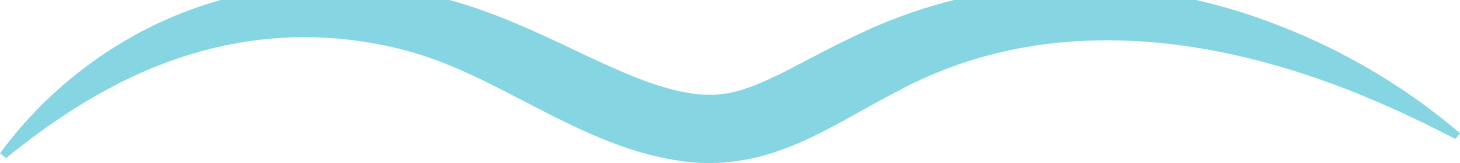
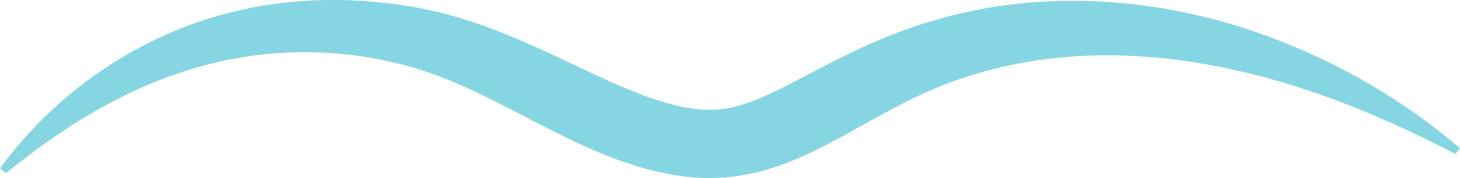
wave

diff --git a/styles.css b/styles.css
@@ -33,13 +33,16 @@ body {
 .wave{
     width: 85%; 
     height: 20%;
+    padding-left: 10%;
     display: flex;
     justify-content: center;
     align-items: center;
+    position: absolute;
+
 }
 .wave img{
     width: 100%;
-    height: auto;
+    height: 100%;
 }
     
 /* Sticky hovedmenu */
@@ -50,7 +53,6 @@ body {
     backdrop-filter: blur(5px); /* Glas-effekt */
     padding: 10px 0;
     text-align: center;
-
 }
 
 .nav-container ul {
@@ -78,4 +80,37 @@ body {
     border-radius: 5px;
     text-decoration: underline;
     text-decoration-style: wavy;
+}
+.footer {
+    position: relative;
+    width: 100%;
+    height: 120px; /* Justér højden efter behov */
+    background-image: url(Frame29.png) no-repeat center center/cover; /* Baggrundsbillede */
+    display: flex;
+    align-items: center;
+    justify-content: center;
+    text-align: center;
+    color: white;
+}
+
+.overlay {
+    position: absolute;
+    top: 0;
+    left: 0;
+    width: 100%;
+    height: 100%;
+    background: rgba(0, 0, 0, 0.5); /* Mørkt overlay */
+}
+
+.footer-content {
+    position: relative;
+    z-index: 2;
+}
+
+.footer a {
+    color: white;
+    text-decoration: none;
+    font-weight: bold;
+    display: block;
+    margin-top: 5px;
 }

diff --git a/index.html b/index.html
@@ -14,7 +14,7 @@
             <img src="imgvid/logo.png" alt="logo" style="width: 100px; height: 100px;">
         </div>
         <div class="wave">
-            <img src="wave.svg" alt="wave">
+            <img src="imgvid/wave.png" alt="wave">
         </div>
     </div>
     <div class="nav-container">
@@ -60,8 +60,13 @@
         <p>Lorem, ipsum dolor sit amet consectetur adipisicing elit. Eos architecto quam sed est repellendus. Eveniet, ab ipsum consectetur id rerum placeat deleniti eius. Nihil, est. Voluptates maiores illum pariatur perferendis.</p>
     </div>
     <footer>
-        <div class="footer-container">
-        <img src="footer.svg" alt="footer">
+        <footer class="footer">
+            <div class="overlay"></div>
+            <div class="footer-content">
+                <p>COPYRIGHT © 2025 SPRING I VANDET, INC. ALL RIGHTS RESERVED</p>
+                <a href="#">Contact us</a>
+            </div>
+        </footer>
 
     </footer>  
 </body>
